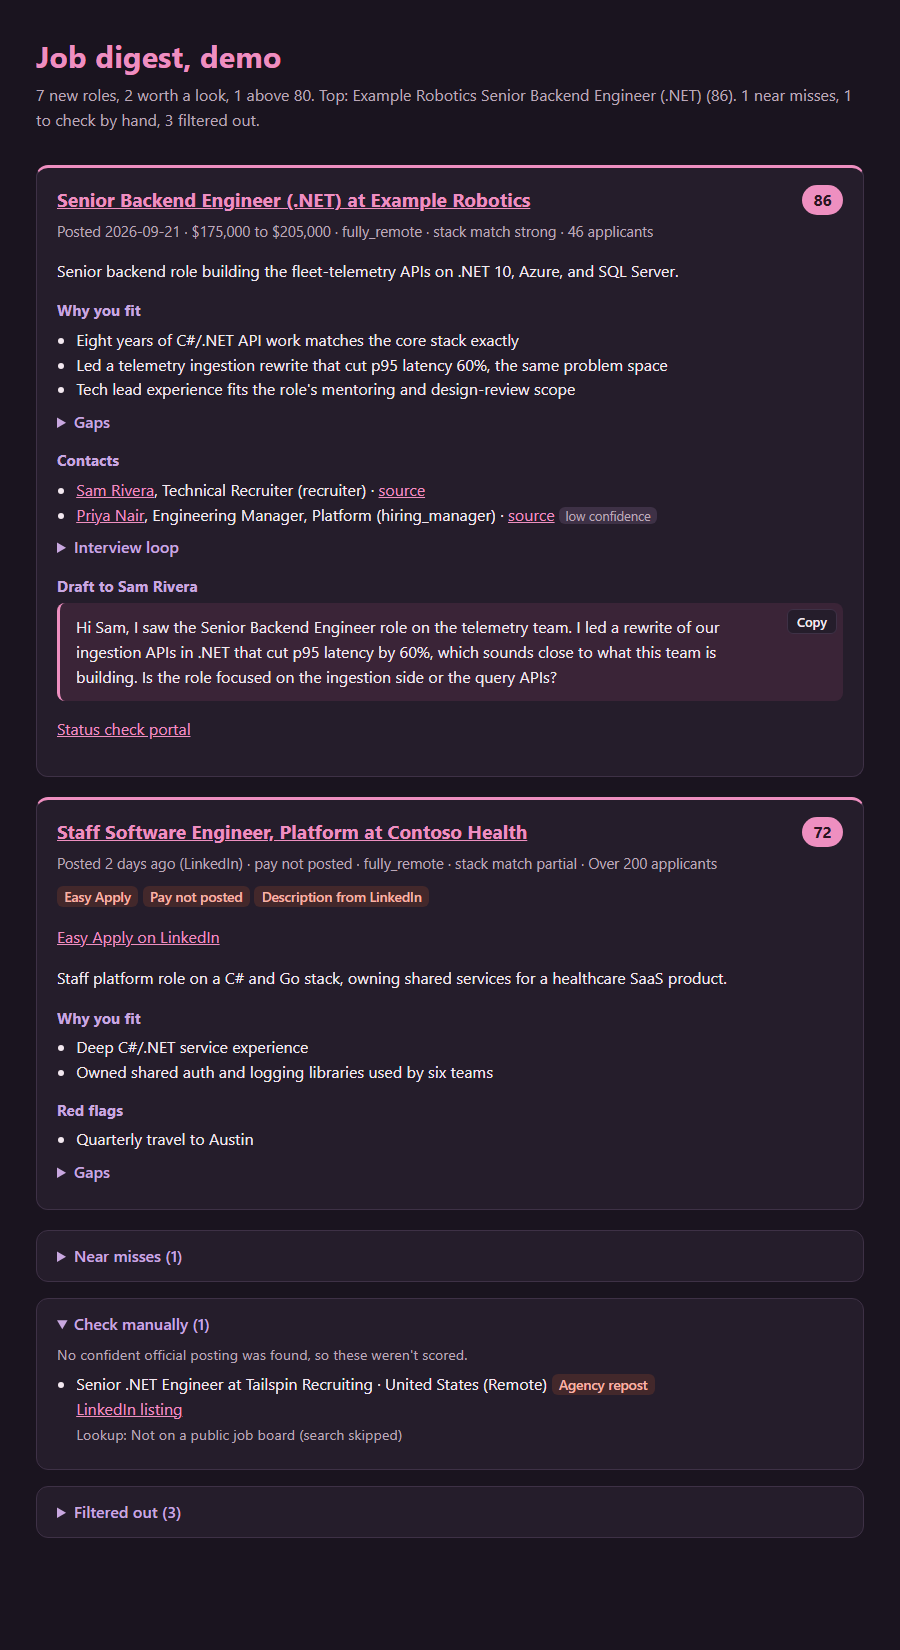
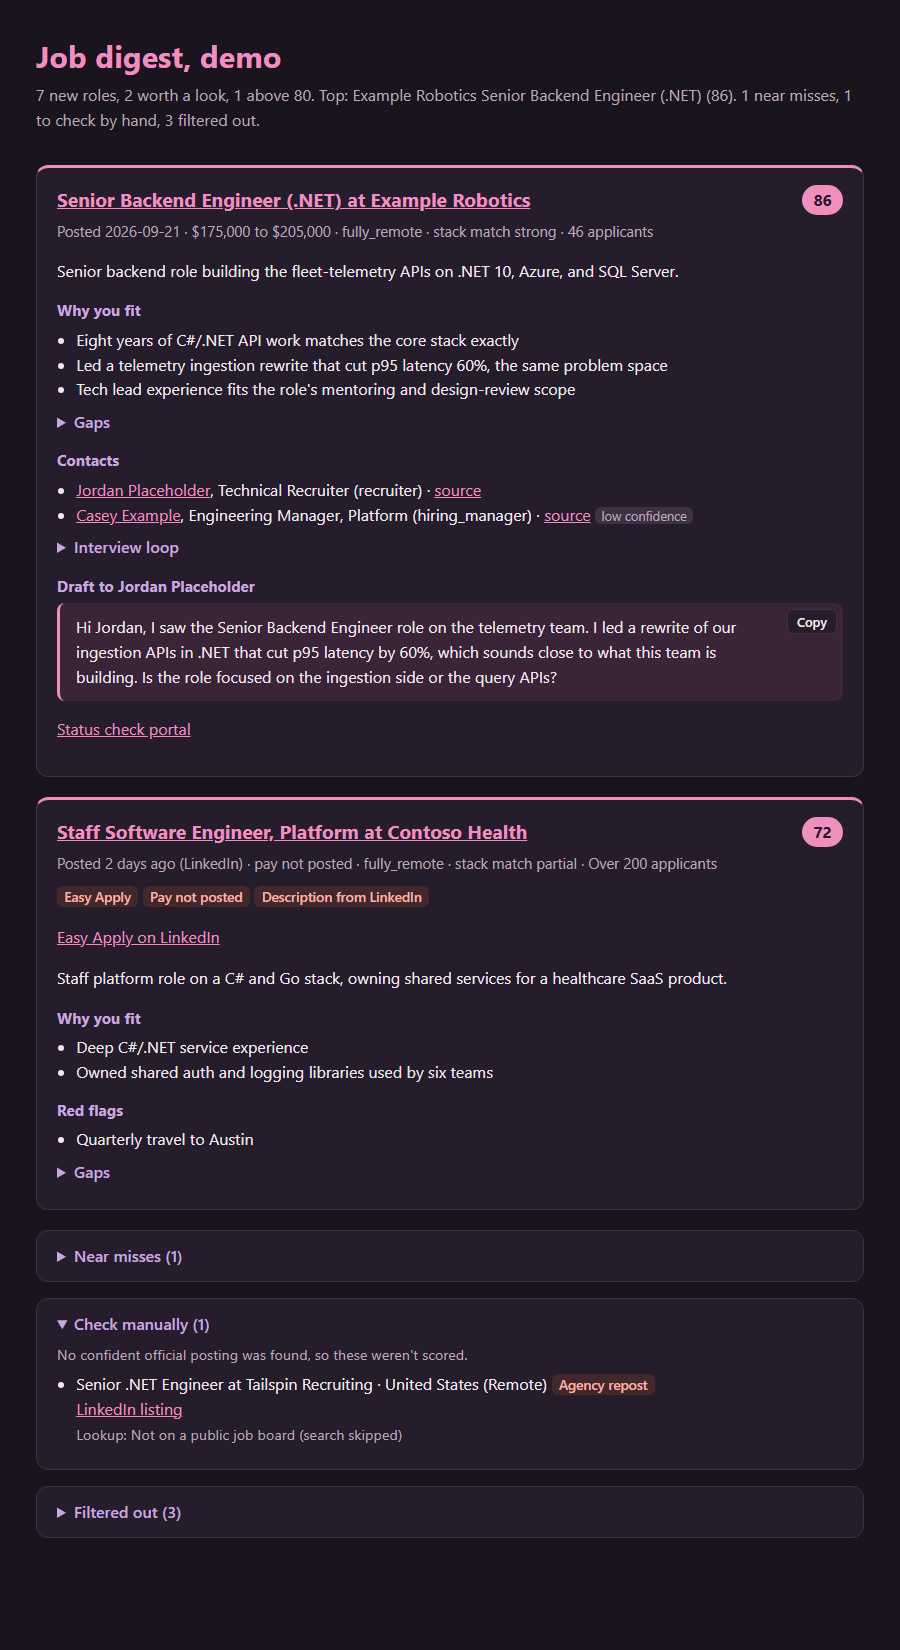
Use obviously fictional contact names in the demo digest

Changed region(s): [[0.0933, 0.2782, 0.8089, 0.4018]]

diff --git a/src/JobHunt/Demo.cs b/src/JobHunt/Demo.cs
@@ -28,12 +28,12 @@ public static class Demo
             Research = new Research
             {
                 Contacts = [
-                    new Contact { Name = "Sam Rivera", Title = "Technical Recruiter", Role = "recruiter", Linkedin = "https://www.linkedin.com/", Source = "https://example.com/team", Confidence = "high" },
-                    new Contact { Name = "Priya Nair", Title = "Engineering Manager, Platform", Role = "hiring_manager", Linkedin = "https://www.linkedin.com/", Source = "https://example.com/blog", Confidence = "low" },
+                    new Contact { Name = "Jordan Placeholder", Title = "Technical Recruiter", Role = "recruiter", Linkedin = "https://www.linkedin.com/", Source = "https://example.com/team", Confidence = "high" },
+                    new Contact { Name = "Casey Example", Title = "Engineering Manager, Platform", Role = "hiring_manager", Linkedin = "https://www.linkedin.com/", Source = "https://example.com/blog", Confidence = "low" },
                 ],
                 InterviewLoop = [new LoopDetail { Detail = "Recruiter screen, then a system design round and a pairing session (per the engineering blog)", Source = "https://example.com/blog/hiring" }],
             },
-            Draft = "Hi Sam, I saw the Senior Backend Engineer role on the telemetry team. I led a rewrite of our ingestion APIs in .NET that cut p95 latency by 60%, which sounds close to what this team is building. Is the role focused on the ingestion side or the query APIs?",
+            Draft = "Hi Jordan, I saw the Senior Backend Engineer role on the telemetry team. I led a rewrite of our ingestion APIs in .NET that cut p95 latency by 60%, which sounds close to what this team is building. Is the role focused on the ingestion side or the query APIs?",
             Applicants = "46 applicants",
         };
         lead.DraftTo = lead.Research.Contacts[0];
